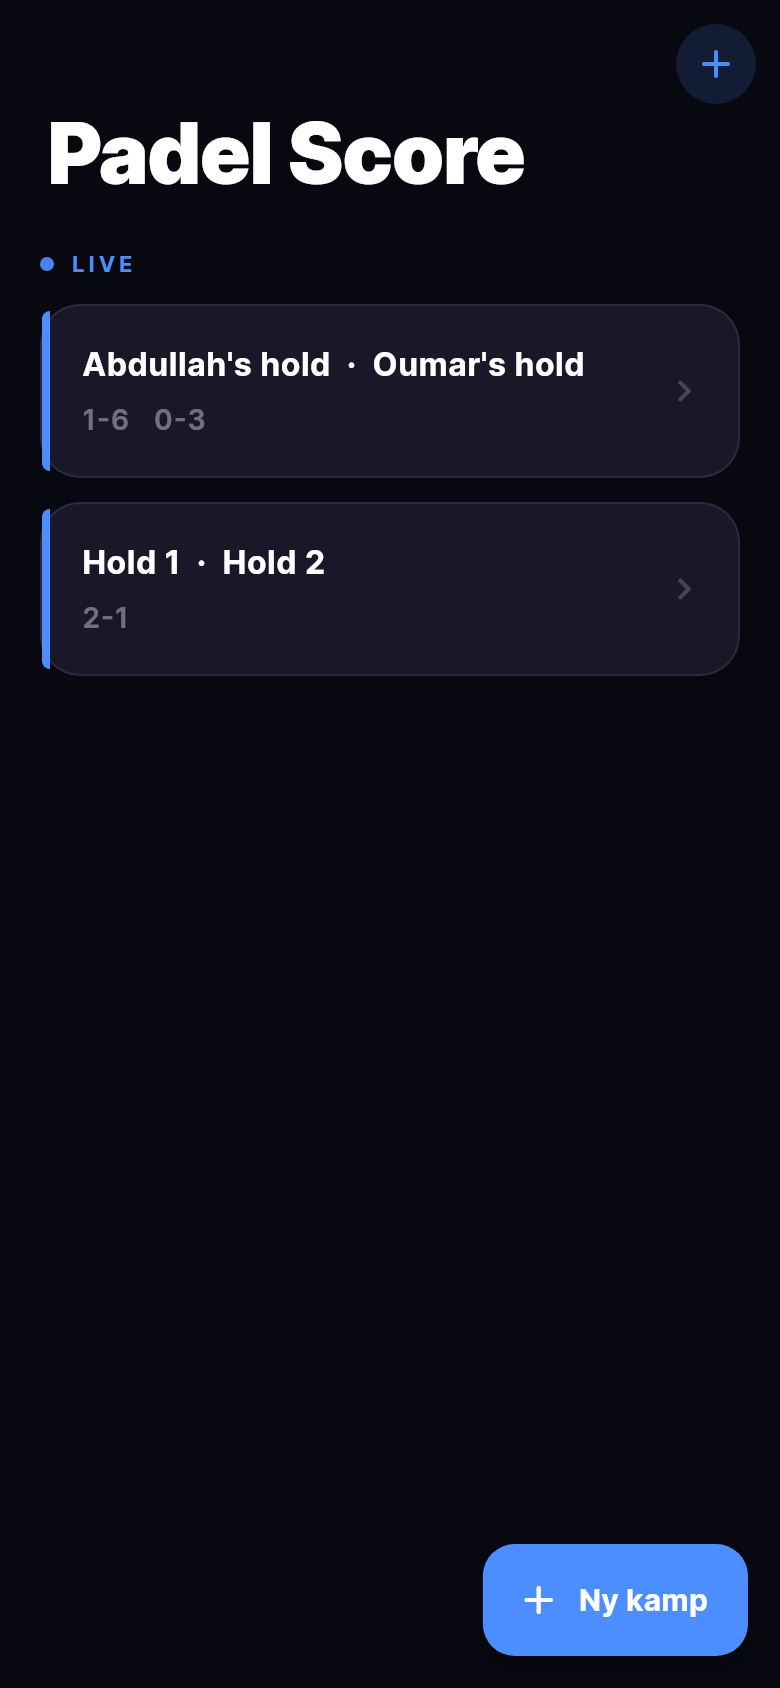
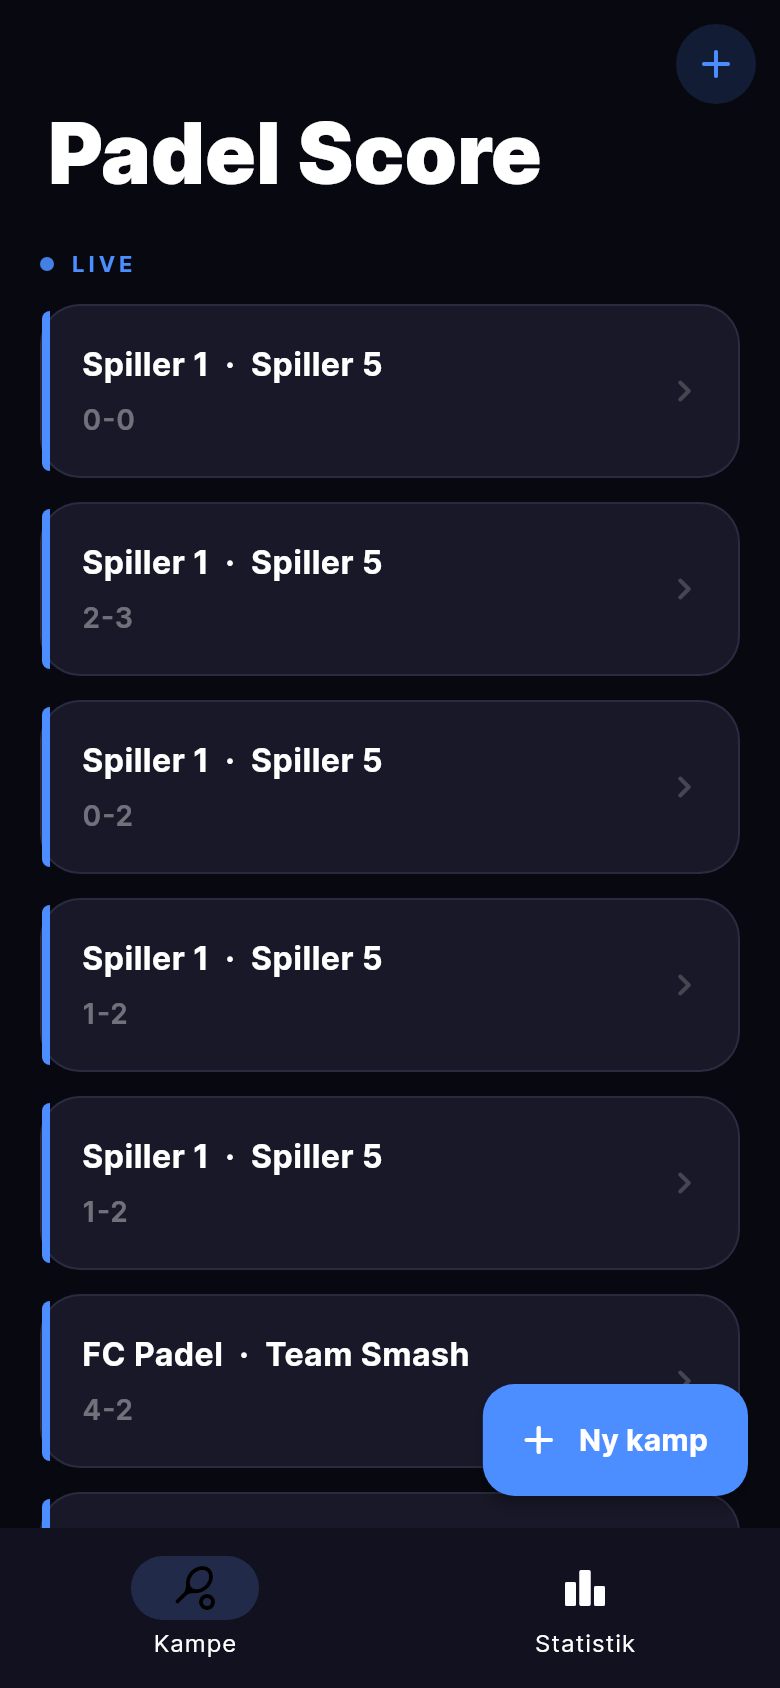
Update screenshots and README with stats, live badge and full feature list

diff --git a/scripts/screenshot.js b/scripts/screenshot.js
@@ -28,69 +28,58 @@ async function tap(page, x, y, wait = 700) {
   const page = await browser.newPage();
   await page.setViewport({ width: W, height: H, deviceScaleFactor: 2 });
 
-  // ── 1. Home screen ───────────────────────────────────────────────────
-  console.log('Loading app...');
+  // ── 1. Home — Kampe tab ─────────────────────────────────────────────
+  console.log('Home screen...');
   await page.goto(BASE, { waitUntil: 'load', timeout: 40000 });
   await sleep(4000);
+  await tap(page, 97, 815, 600); // Kampe tab
   await shot(page, '01_home');
 
-  // ── 2. New match screen ──────────────────────────────────────────────
-  // FAB "Ny kamp" — bottom right
-  await tap(page, 308, 800, 1500);
-  await shot(page, '02_new_match');
+  // ── 2. Statistik tab ────────────────────────────────────────────────
+  console.log('Stats screen...');
+  await tap(page, 293, 815, 1000);
+  await shot(page, '02_stats');
 
-  // ── 3. Fill in team names ────────────────────────────────────────────
-  // Team 1 input
-  await tap(page, 195, 152, 400);
-  await page.keyboard.down('Control');
-  await page.keyboard.press('a');
-  await page.keyboard.up('Control');
-  await page.keyboard.type('FC Padel');
-  await sleep(200);
+  // ── 3. Ny kamp skærm — direkte URL ──────────────────────────────────
+  console.log('New match screen...');
+  await page.goto(`${BASE}/new`, { waitUntil: 'load', timeout: 20000 });
+  await sleep(2500);
+  await shot(page, '03_new_match');
 
-  // Team 2 input
-  await tap(page, 195, 298, 400);
-  await page.keyboard.down('Control');
-  await page.keyboard.press('a');
-  await page.keyboard.up('Control');
-  await page.keyboard.type('Team Smash');
-  await sleep(200);
-
-  await shot(page, '03_new_match_filled');
-
-  // ── 4. Start match ───────────────────────────────────────────────────
-  await tap(page, 195, 807, 6000); // Wait for Firestore
+  // ── 4. Klik på en kamp fra home for at åbne score ───────────────────
+  console.log('Clicking first match card...');
+  await page.goto(BASE, { waitUntil: 'load', timeout: 20000 });
+  await sleep(3000);
+  await tap(page, 97, 815, 600);  // Kampe tab
+  await tap(page, 195, 320, 3000); // Første kort i listen
   await shot(page, '04_score_start');
 
-  // ── 5. Add points: 30 - 15 ──────────────────────────────────────────
-  await tap(page, 90, 428);  // T1 point
-  await tap(page, 90, 428);  // T1 → 30
-  await tap(page, 295, 428); // T2 point → 15
-  await shot(page, '05_score_30_15');
+  // ── 5. Giv points ───────────────────────────────────────────────────
+  console.log('Scoring points...');
+  await tap(page, 90, 400);
+  await tap(page, 90, 400);
+  await tap(page, 90, 400);
+  await tap(page, 295, 400);
+  await tap(page, 295, 400);
+  await tap(page, 295, 400);
+  await tap(page, 90, 400);
+  await shot(page, '05_score_40_30');
 
-  // ── 6. 40 - 30 ──────────────────────────────────────────────────────
-  await tap(page, 90, 428);  // T1 → 40
-  await tap(page, 295, 428); // T2 → 30
-  await shot(page, '06_score_40_30');
-
-  // ── 7. Win a game then build set score ──────────────────────────────
-  await tap(page, 90, 428);  // T1 wins game → 1-0
-  await sleep(600);
-
-  // Quickly win more games for T1: 4-0
+  // ── 6. Vindscore ────────────────────────────────────────────────────
+  await tap(page, 90, 400);
+  await sleep(500);
   for (let i = 0; i < 3; i++) {
-    for (let p = 0; p < 4; p++) { await tap(page, 90, 428, 150); }
-    await sleep(400);
+    for (let p = 0; p < 4; p++) { await tap(page, 90, 400, 120); }
+    await sleep(300);
   }
-  // T2 wins 2 games: 4-2
   for (let i = 0; i < 2; i++) {
-    for (let p = 0; p < 4; p++) { await tap(page, 295, 428, 150); }
-    await sleep(400);
+    for (let p = 0; p < 4; p++) { await tap(page, 295, 400, 120); }
+    await sleep(300);
   }
-  await shot(page, '07_set_score_4_2');
+  await shot(page, '06_set_score');
 
   await browser.close();
-  console.log('\nAlle screenshots gemt i /screenshots/');
+  console.log('\nFærdig!');
 })().catch(err => {
   console.error('Fejl:', err.message);
   process.exit(1);

diff --git a/README.md b/README.md
@@ -1,48 +1,59 @@
 # Padel Score
 
-Real-time padel score tracker til iOS, Android og web. Tryk på din sides halvdel af skærmen for at give dit hold et point — scoren opdateres live på alle enheder.
+Real-time padel score tracker til iOS, Android og web. Installér som PWA og tryk på din sides halvdel for at give point — scoren opdateres live på alle enheder.
 
 ## Screenshots
 
 <table>
   <tr>
-    <td align="center"><b>Oversigt</b></td>
-    <td align="center"><b>Ny kamp</b></td>
-    <td align="center"><b>Score — 0-0</b></td>
+    <td align="center"><b>Kampe</b></td>
+    <td align="center"><b>Statistik</b></td>
+    <td align="center"><b>Score — Live</b></td>
   </tr>
   <tr>
     <td><img src="screenshots/01_home.png" width="220"/></td>
-    <td><img src="screenshots/03_new_match_filled.png" width="220"/></td>
+    <td><img src="screenshots/02_stats.png" width="220"/></td>
     <td><img src="screenshots/04_score_start.png" width="220"/></td>
-  </tr>
-  <tr>
-    <td align="center"><b>40 - 30</b></td>
-    <td align="center"><b>Sætscore 4-2</b></td>
-    <td align="center"><b>Under spil</b></td>
-  </tr>
-  <tr>
-    <td><img src="screenshots/06_score_40_30.png" width="220"/></td>
-    <td><img src="screenshots/07_set_score_4_2.png" width="220"/></td>
-    <td><img src="screenshots/05_score_30_15.png" width="220"/></td>
   </tr>
 </table>
 
 ## Features
 
+**Scoring**
 - Fuld padel-scoring: 0 / 15 / 30 / 40 / Deuce / Advantage / Tiebreak
-- Real-time sync via Firebase Firestore — alle enheder ser scoren live
-- Undo op til 20 trin tilbage
-- Tryk venstre/højre halvdel af skærmen for at give point
 - Best of 3 sæt med tiebreak ved 6-6
+- Undo op til 20 trin tilbage
+
+**Live & Del**
+- Real-time sync via Firebase Firestore
+- Ejer-mode (scorer) vs. Tilskuer-mode (read-only med LIVE-badge)
+- TV-skærm visning `/tv/:id` — kæmpe score til banen
+- Del kamp-link med ét tryk
+
+**Indstillinger per kamp**
+- 🔥 Varm op timer — 5 min nedtælling
+- 🎾 Serveindikator — skifter automatisk efter hvert spil
+- ⏱ Timeout — 60 sek cirkulær nedtælling
+- 🔔 Boldbytte påmindelse — efter 9 spil
+- 💬 Live kommentarer — tilskuere skriver, spillere svarer
+
+**Statistik**
+- Leaderboard: sejre, tab, win%
+- Bedste makker per spiller
+
+**PWA**
+- Installer på iPhone/Android hjemskærm — åbner som native app
+- Offline-kapabel via service worker
 
 ## Tech stack
 
 | Lag | Teknologi |
 |---|---|
-| App | Flutter (iOS, Android, Web) |
+| App | Flutter (Web, iOS, Android) |
 | State | Riverpod |
 | Navigation | go_router |
-| Database | Firebase Firestore |
+| Database | Firebase Firestore (real-time) |
+| Hosting | Firebase Hosting |
 | Fonts | Google Fonts (Inter) |
 
 ## Kom i gang
@@ -71,7 +82,7 @@ flutter run
 flutter build web --release && firebase deploy --only hosting --project padel-score-ab0b5
 ```
 
-Live: https://padel-score-ab0b5.web.app
+Live: **https://padel-score-ab0b5.web.app**
 
 ## IoT (kommer snart)
 